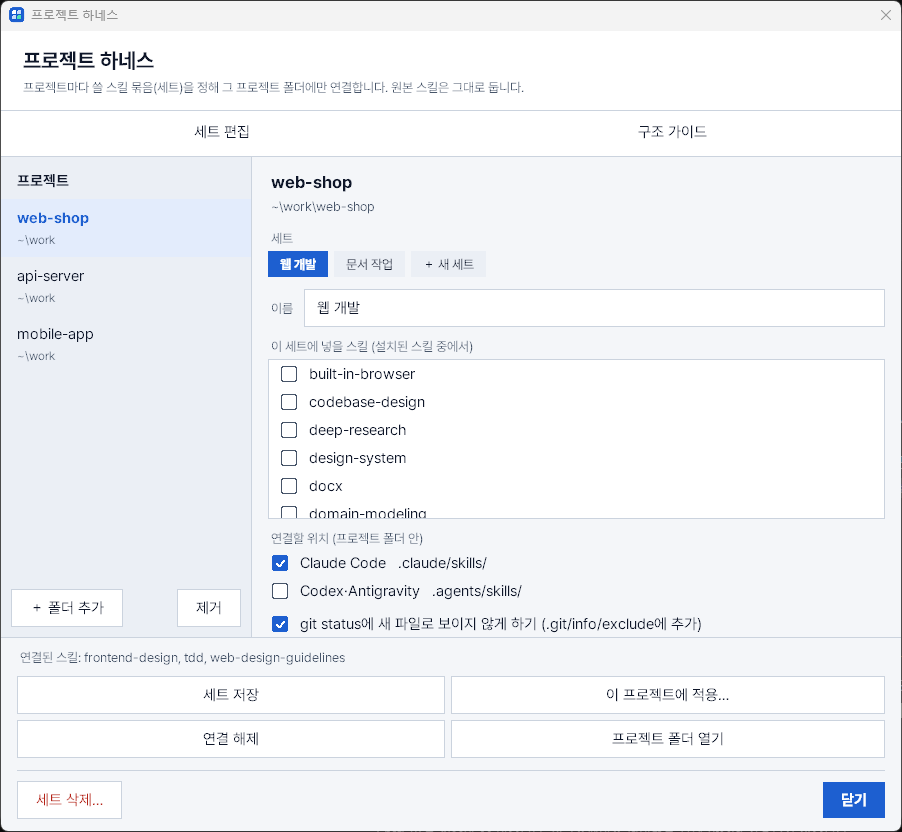
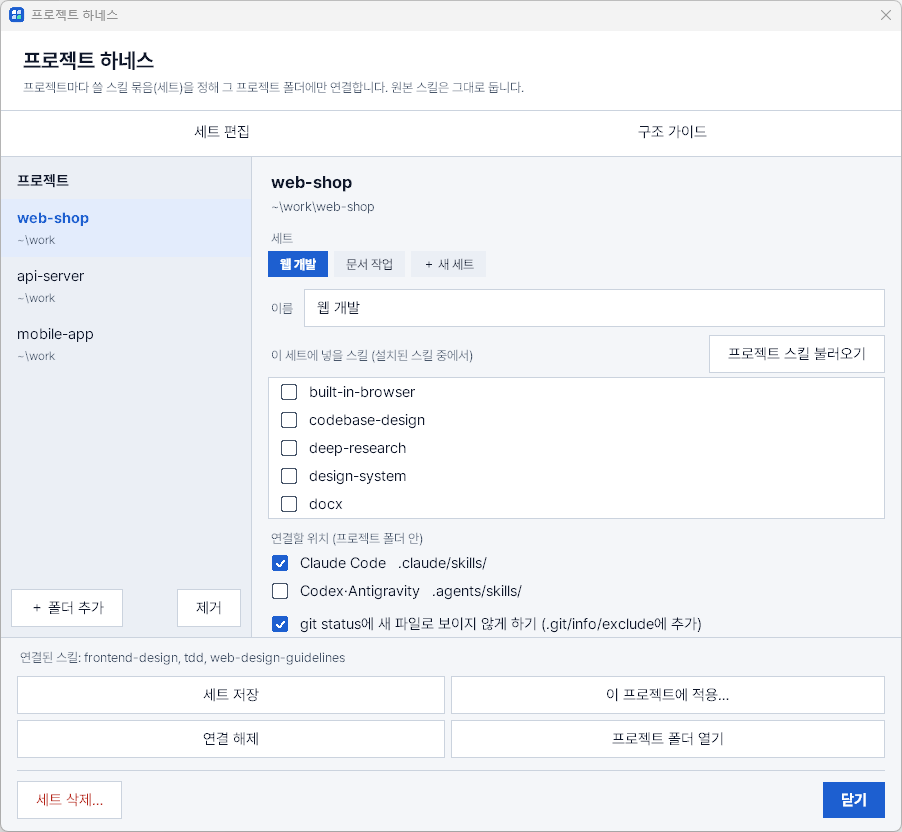
Feat: 프로젝트 하네스에 프로젝트 스킬 불러오기와 기본 초기 세팅 생성 추가
- 프로젝트 폴더의 스킬을 체크 목록에 불러와 세트로 저장
- 구조 가이드의 '기본 세팅 만들기'로 없는 파일만 기본 틀로 생성(덮어쓰지 않음)
- '기본 세팅 편집'으로 기본 내용을 직접 고쳐 저장하고 재사용

Changed region(s): [[0.2794, 0.4062, 0.5277, 0.625], [0.9933, 0.0, 1.0, 1.0], [0.8071, 0.4062, 0.9623, 0.4375]]

diff --git a/src/skilldesk/skill_viewer.py b/src/skilldesk/skill_viewer.py
@@ -1807,6 +1807,7 @@ class HarnessWindow:
         self.project: str | None = None
         self.set_name: str | None = None
         self.creating = False  # "＋ 새 세트" was clicked: an empty set waiting for a name
+        self.pending: set[str] | None = None  # skills read from the project folder, shown ticked until a set is saved
         self.name_var = tk.StringVar()
         self.skill_vars: dict[str, tk.BooleanVar] = {}
         self.target_vars: dict[str, tk.BooleanVar] = {}
@@ -1924,8 +1925,11 @@ class HarnessWindow:
         box, self.name_entry = app._entry(name_row, self.name_var)
         box.pack(side="left", fill="x", expand=True)
 
-        app._label(self.right, "이 세트에 넣을 스킬 (설치된 스킬 중에서)", 10, fg=c["muted"], bg=c["bg"], anchor="w").pack(fill="x")
-        saved = set(self.data["sets"].get(self.set_name or "", {}).get("skills", []))
+        pick = tk.Frame(self.right, bg=c["bg"])
+        pick.pack(fill="x")
+        app._label(pick, "이 세트에 넣을 스킬 (설치된 스킬 중에서)", 10, fg=c["muted"], bg=c["bg"], anchor="w").pack(side="left")
+        app._button(pick, "프로젝트 스킬 불러오기", self.load_project_skills).pack(side="right", pady=(0, 2))
+        saved = set(self.pending if self.pending is not None else self.data["sets"].get(self.set_name or "", {}).get("skills", []))
         installed = sorted({s["path"].name for skills in app.data.values() for s in skills if s["managed"]}, key=str.lower)
         self.skill_vars = {n: tk.BooleanVar(value=n in saved) for n in installed}
         self.skill_vars |= {n: tk.BooleanVar(value=True) for n in sorted(saved - set(installed))}  # in the set, no longer installed
@@ -1966,7 +1970,9 @@ class HarnessWindow:
             self.say("이 프로젝트 폴더를 찾을 수 없습니다. 옮기거나 지웠다면 '제거'로 목록에서 빼세요.", warn=True)
             return
         on = hn.applied(self.project)
-        self.say("연결된 스킬: " + ", ".join(on) if on else "아직 이 프로젝트에 연결된 스킬이 없습니다.")
+        own = [n for n in hn.project_skills(self.project) if n not in on]
+        parts = ([f"연결된 스킬: {', '.join(on)}"] if on else []) + ([f"프로젝트에 직접 둔 스킬: {', '.join(own)}"] if own else [])
+        self.say(" · ".join(parts) or "아직 이 프로젝트에 연결된 스킬이 없습니다.")
 
     def show_page(self, name: str) -> None:
         self.page = name
@@ -1987,8 +1993,8 @@ class HarnessWindow:
         steps = ["1. 왼쪽 '＋ 폴더 추가'로 프로젝트 폴더를 등록합니다.",
                  "2. 세트 편집에서 이 프로젝트에 쓸 스킬을 골라 세트로 저장합니다.",
                  "3. '이 프로젝트에 적용'을 누르면 아래 트리의 skills 폴더에 연결이 만들어집니다. '연결 해제'로 되돌립니다.",
-                 "4. CLAUDE.md · AGENTS.md · .mcp.json · settings.json은 프로젝트에서 직접 작성합니다. "
-                 "이 앱은 아직 만들거나 고치지 않고, 있는지만 보여 줍니다."]
+                 "4. 아래 '기본 세팅 만들기'를 누르면 CLAUDE.md · AGENTS.md · .mcp.json · settings.json 중 없는 것만 기본 틀로 만듭니다. "
+                 "이미 있는 파일은 건드리지 않습니다. 내용은 '기본 세팅 편집…'에서 내 것으로 바꿔 둘 수 있습니다."]
         box = tk.Frame(self.guide_page, bg=c["bg"])
         box.pack(fill="both", expand=True, padx=20, pady=(14, 0))
         app._label(box, "하네스 만드는 순서", 11, bold=True, bg=c["bg"], anchor="w").pack(fill="x", pady=(0, 4))
@@ -1999,6 +2005,10 @@ class HarnessWindow:
             app._label(box, "\n프로젝트를 등록하면 그 폴더의 구조가 여기에 트리로 나옵니다.", 10, fg=c["muted"], bg=c["bg"],
                        anchor="w").pack(fill="x")
             return
+        row = tk.Frame(box, bg=c["bg"])
+        row.pack(side="bottom", fill="x", pady=(0, 8))  # before the tree, so a short window shrinks the tree
+        app._button(row, "기본 세팅 만들기…", self.init_defaults, primary=True).pack(side="left")
+        app._button(row, "기본 세팅 편집…", self.edit_defaults).pack(side="left", padx=(8, 0))
         app._label(box, "프로젝트 구조", 11, bold=True, bg=c["bg"], anchor="w").pack(fill="x", pady=(14, 4))
         mono = (plat.MONO_FONT, round(10 * plat.FONT_SCALE), "normal", "roman")
         text = tk.Text(box, font=mono, bg=c["surface"], fg=c["text"], relief="flat", highlightthickness=1,
@@ -2024,11 +2034,11 @@ class HarnessWindow:
 
     # ---- choices --------------------------------------------------------------------------------
     def select_project(self, path: str) -> None:
-        self.project, self.set_name, self.creating = path, None, False
+        self.project, self.set_name, self.creating, self.pending = path, None, False, None
         self.refresh()
 
     def choose_set(self, name: str | None) -> None:
-        self.set_name, self.creating = name, name is None
+        self.set_name, self.creating, self.pending = name, name is None, None
         if name is not None:
             self.persist()
         self.refresh()
@@ -2080,6 +2090,51 @@ class HarnessWindow:
         if self.project:
             plat.open_folder(Path(self.project))
 
+    # ---- default setup --------------------------------------------------------------------------
+    def load_project_skills(self) -> None:
+        """Tick the skills the project folder already has (linked or put there by hand), ready to save as a set."""
+        if not self.project:
+            return self.say("프로젝트를 먼저 추가하세요.", warn=True)
+        names = hn.project_skills(self.project)
+        if not names:
+            return self.say("이 프로젝트 폴더(.claude/skills, .agents/skills)에 스킬이 없습니다.", warn=True)
+        typed, self.pending = self.name_var.get(), set(names)
+        self.refresh()
+        self.name_var.set(typed)
+        self.say(f"프로젝트 폴더의 스킬 {len(names)}개를 체크했습니다. 이름을 적고 '세트 저장'을 누르면 세트가 됩니다.")
+
+    def init_defaults(self) -> None:
+        """Create the default files the project lacks (never overwriting), and link the chosen set if there is one."""
+        if not self.project:
+            return self.say("프로젝트를 먼저 추가하세요.", warn=True)
+        missing = hn.missing_defaults(self.project)
+        skills = self.data["sets"][self.set_name]["skills"] if self.set_name in self.data["sets"] else []
+        if not missing and not skills:
+            return self.say("이미 기본 세팅이 모두 있습니다. 만들 것이 없습니다.")
+        lines = ["만들 파일: " + (", ".join(missing) or "없음 (모두 이미 있습니다)")]
+        if skills:
+            places = ", ".join(f"{hn.PROJECT_DIRS[t]}/" for t in self.targets())
+            lines.append(f"'{self.set_name}' 세트의 스킬 {len(skills)}개를 {places} 에 연결")
+        if not messagebox.askokcancel("기본 세팅 만들기", "\n".join(lines) + "\n\n이미 있는 파일과 폴더는 건드리지 않습니다.",
+                                      parent=self.win):
+            return
+        made = self.run(hn.init_project, self.project)
+        if made is None:
+            return
+        names = [r.name for r in made if r.status == "created"]
+        text, warn = ("새로 만든 파일: " + ", ".join(names) if names else "새로 만든 파일이 없습니다."), False
+        if skills:
+            self.persist()
+            if (out := self.run(hn.apply, self.project, self.exclude_var.get())) is not None:
+                line, warn = summarize(out)
+                text += " · " + line
+        self.refresh()
+        self.draw_guide()
+        self.say(text, warn)
+
+    def edit_defaults(self) -> None:
+        DefaultsWindow(self)
+
     # ---- sets -----------------------------------------------------------------------------------
     def save_set(self) -> str | None:
         """Save the ticked skills under the typed name and make it this project's set. -> the name, or None."""
@@ -2092,7 +2147,7 @@ class HarnessWindow:
         except mgr.ManagerError as e:
             messagebox.showerror("프로젝트 하네스", str(e), parent=self.win)
             return None
-        self.set_name, self.creating = name, False
+        self.set_name, self.creating, self.pending = name, False, None
         self.persist()
         self.refresh()
         self.say(f"'{name}' 세트를 저장했습니다.")
@@ -2142,6 +2197,73 @@ class HarnessWindow:
 
 def ellipsis(text: str, n: int) -> str:
     return text if len(text) <= n else "…" + text[-(n - 1):]
+
+
+class DefaultsWindow:
+    """Edit the content of the default files ('기본 세팅 만들기' writes these into a project). Saved in harness.json."""
+    W, H = 640, 520
+
+    def __init__(self, parent: HarnessWindow):
+        self.app = parent.app
+        app, c = self.app, self.app.c
+        self.win = win = app._side_window("기본 세팅 편집", self.W, self.H)
+        win.transient(parent.win)
+        win.bind("<Escape>", lambda e: win.destroy())
+        self.files = hn.default_files()
+        self.current = next(iter(self.files))
+        app._label(win, "기본 세팅 편집", 14, bold=True, bg=c["bg"], anchor="w", padx=20).pack(fill="x", pady=(14, 0))
+        app._label(win, "프로젝트에 없는 파일을 만들 때 쓰는 내용입니다. 이미 있는 파일에는 영향이 없습니다.", 10, fg=c["muted"],
+                   bg=c["bg"], anchor="w", padx=20).pack(fill="x", pady=(0, 8))
+        bottom = tk.Frame(win, bg=c["bg"])
+        bottom.pack(side="bottom", fill="x", padx=20, pady=(8, 14))
+        app._button(bottom, "저장", self.save, primary=True).pack(side="right")
+        app._button(bottom, "닫기", win.destroy).pack(side="right", padx=(0, 8))
+        app._button(bottom, "앱 기본값으로", self.reset).pack(side="left")
+        self.note = app._label(win, "", 10, fg=c["muted"], bg=c["bg"], anchor="w", padx=20)
+        self.note.pack(side="bottom", fill="x")
+        chips = tk.Frame(win, bg=c["bg"])
+        chips.pack(fill="x", padx=20, pady=(0, 6))
+        self.chips = {}
+        for rel in self.files:
+            chip = app._label(chips, rel, 10, padx=10, pady=3, cursor="hand2")
+            chip.pack(side="left", padx=(0, 6))
+            chip.bind("<Button-1>", lambda e, r=rel: self.choose(r))
+            self.chips[rel] = chip
+        self.text = DetailDialog._text_box(self, win, height=14, mono=True)  # type: ignore[arg-type]  # the skill editor's box
+        self.text.frame.pack(fill="both", expand=True, padx=20)  # type: ignore[attr-defined]
+        self.text.insert("1.0", self.files[self.current])
+        self.paint()
+
+    def paint(self) -> None:
+        c = self.app.c
+        for r, chip in self.chips.items():
+            on = r == self.current
+            chip.config(bg=c["accent"] if on else c["rail"], fg=c["on_accent"] if on else c["text"])
+
+    def choose(self, rel: str) -> None:
+        self.files[self.current] = self.text.get("1.0", "end-1c")
+        self.current = rel
+        self.text.delete("1.0", "end")
+        self.text.insert("1.0", self.files[rel])
+        self.text.edit_reset()
+        self.paint()
+
+    def say(self, text: str, warn: bool = False) -> None:
+        self.note.config(text=text, fg=self.app.c["warn_fg"] if warn else self.app.c["muted"])
+
+    def save(self) -> None:
+        self.files[self.current] = self.text.get("1.0", "end-1c")
+        try:
+            hn.save_defaults(self.files)
+        except mgr.ManagerError as e:
+            return self.say(str(e), warn=True)
+        self.say("저장했습니다. 다음 '기본 세팅 만들기'부터 이 내용을 씁니다.")
+
+    def reset(self) -> None:
+        self.files = dict(hn.DEFAULT_FILES)
+        self.text.delete("1.0", "end")
+        self.text.insert("1.0", self.files[self.current])
+        self.say("앱 기본값을 불러왔습니다. 저장해야 적용됩니다.")
 
 
 def summarize(results: list, release: bool = False) -> tuple[str, bool]:

diff --git a/src/skilldesk/skill_harness.py b/src/skilldesk/skill_harness.py
@@ -37,6 +37,14 @@ STRUCTURE = [
     (".agents/skills", "프로젝트 전용 스킬 폴더 ← 세트를 적용하면 여기에 연결됩니다"),
 ]
 MAX_SHOWN = 50  # skills listed per folder in the guide
+# The app's starting content for the files "기본 세팅 만들기" writes. The user can replace any of them (saved under
+# "defaults" in harness.json); a file that already exists in the project is never overwritten.
+DEFAULT_FILES = {
+    "CLAUDE.md": "<!-- Claude Code가 이 프로젝트에서 시작할 때마다 읽는 지침입니다. 프로젝트 설명, 작업 규칙을 적어 두세요. -->\n",
+    "AGENTS.md": "<!-- Codex 등 여러 에이전트가 읽는 지침입니다. 프로젝트 설명, 작업 규칙을 적어 두세요. -->\n",
+    ".mcp.json": '{\n  "mcpServers": {}\n}\n',
+    ".claude/settings.json": "{}\n",
+}
 
 
 def _file() -> Path:
@@ -65,7 +73,9 @@ def load() -> dict:
         exclude = [x for x in v.get("exclude", []) if isinstance(x, str)]
         chosen = v.get("set") if v.get("set") in sets else None
         projects[path] = {**v, "set": chosen, "targets": targets or list(PROJECT_DIRS)[:1], "links": links, "exclude": exclude}
-    return {"version": VERSION, "sets": sets, "projects": projects}
+    d = raw.get("defaults")
+    defaults = {k: v for k, v in (d if isinstance(d, dict) else {}).items() if k in DEFAULT_FILES and isinstance(v, str)}
+    return {"version": VERSION, "sets": sets, "projects": projects, "defaults": defaults}
 
 
 def save(data: dict) -> None:
@@ -94,6 +104,58 @@ def delete_set(name: str) -> None:
         if p["set"] == name:
             p["set"] = None
     save(data)
+
+
+# ---- default setup -------------------------------------------------------------------------------
+def default_files() -> dict[str, str]:
+    """The content "기본 세팅 만들기" writes: the app's starting files, with the user's saved edits on top."""
+    return {**DEFAULT_FILES, **load()["defaults"]}
+
+
+def save_defaults(files: dict[str, str]) -> None:
+    """Remember the user's own content for the default files (only what differs from the app's start is stored)."""
+    for rel, text in files.items():
+        if rel.endswith(".json"):
+            try:
+                json.loads(text)
+            except ValueError as e:
+                raise ManagerError(f"{rel}은(는) 올바른 JSON이 아닙니다: {e}") from e
+    data = load()
+    data["defaults"] = {k: v for k, v in files.items() if k in DEFAULT_FILES and v != DEFAULT_FILES[k]}
+    save(data)
+
+
+def init_project(path: str | Path) -> list[Result]:
+    """Create the default files that the project does not have yet. Anything that is already there (even a folder or a
+    broken link under that name) is left alone: status 'exists'. A new file is 'created'. -> one Result per file."""
+    project = _project_path(path)
+    out = []
+    for rel, text in default_files().items():
+        f = project / rel
+        if f.exists() or mgr.is_link(f):
+            out.append(Result("파일", rel, "exists"))
+            continue
+        f.parent.mkdir(parents=True, exist_ok=True)
+        with f.open("x", encoding="utf-8", newline="\n") as fh:  # "x": fails rather than overwrite if it appeared meanwhile
+            fh.write(text)
+        out.append(Result("파일", rel, "created"))
+    return out
+
+
+def missing_defaults(path: str | Path) -> list[str]:
+    """The default files the project does not have yet (what init_project would create)."""
+    project = Path(path)
+    return [rel for rel in default_files() if not (project / rel).exists() and not mgr.is_link(project / rel)]
+
+
+def project_skills(path: str | Path) -> list[str]:
+    """Names of the skills already in the project's skills folders (links and folders alike), whoever put them there."""
+    names = set()
+    for rel in PROJECT_DIRS.values():
+        d = Path(path) / rel
+        if d.is_dir():
+            names |= {p.name for p in d.iterdir() if mgr.NAME_RE.fullmatch(p.name) and (p / "SKILL.md").is_file()}
+    return sorted(names, key=str.lower)
 
 
 # ---- projects ------------------------------------------------------------------------------------

diff --git a/tests/test_viewer.py b/tests/test_viewer.py
@@ -1331,6 +1331,9 @@ class PanelTest(unittest.TestCase):
             bad += low_contrast(app, hw.win, app.theme + " harness, new set")
             hw.show_page("구조 가이드")
             bad += low_contrast(app, hw.win, app.theme + " harness, guide")
+            dd = v.DefaultsWindow(hw)
+            bad += low_contrast(app, dd.win, app.theme + " harness, defaults")
+            dd.win.destroy()
             hw.show_page("세트 편집")
             for w in walk(hw.win):
                 if isinstance(w, tk.Label) and str(w.cget("cursor")) == "hand2":
@@ -1407,6 +1410,48 @@ class PanelTest(unittest.TestCase):
             w.delete_set()
         self.assertNotIn("web", hn.load()["sets"])
         w.close()
+        mgr.remove("Claude Code", "harness-demo")
+        app.load()
+
+    def test_16_harness_window_loads_project_skills_and_creates_the_default_setup(self):
+        claude = mgr.AGENT_DIRS["Claude Code"]
+        write_skill(claude / "harness-demo")
+        proj = self.tmp / "harness-init"
+        (proj / ".claude/skills").mkdir(parents=True)
+        write_skill(proj / ".claude/skills/harness-demo")
+        write_skill(proj / ".claude/skills/hand-made")  # not installed anywhere else
+        (proj / "CLAUDE.md").write_text("mine", encoding="utf-8")
+        key = hn.add_project(proj)
+        app = self.app
+        app.load()
+        app.harness_dialog()
+        w = app.dialog
+        w.select_project(key)
+        w.load_project_skills()  # the project's own skills show up ticked, the missing one flagged
+        self.assertEqual({n for n, var in w.skill_vars.items() if var.get()}, {"harness-demo", "hand-made"})
+        w.name_var.set("from-project")
+        w.save_set()
+        self.assertCountEqual(hn.load()["sets"]["from-project"]["skills"], ["hand-made", "harness-demo"])
+        w.show_page("구조 가이드")
+        with mock.patch.object(v.messagebox, "askokcancel", return_value=False):
+            w.init_defaults()  # cancelled: nothing is made
+        self.assertFalse((proj / "AGENTS.md").exists())
+        with mock.patch.object(v.messagebox, "askokcancel", return_value=True):
+            w.init_defaults()
+        self.assertEqual((proj / "CLAUDE.md").read_text(encoding="utf-8"), "mine")  # never overwritten
+        self.assertTrue((proj / "AGENTS.md").is_file() and (proj / ".claude/settings.json").is_file())
+        self.assertIn("AGENTS.md", w.status.cget("text"))
+        dlg = v.DefaultsWindow(w)
+        dlg.choose(".mcp.json")
+        dlg.text.delete("1.0", "end")
+        dlg.text.insert("1.0", "{nope")
+        dlg.save()
+        self.assertEqual(hn.load()["defaults"], {})  # invalid JSON is refused, nothing saved
+        dlg.win.destroy()
+        w.close()
+        for p in (proj / ".claude/skills").iterdir():
+            if mgr.is_link(p):
+                plat.unlink_dir(p)
         mgr.remove("Claude Code", "harness-demo")
         app.load()
 

diff --git a/tests/test_harness.py b/tests/test_harness.py
@@ -54,6 +54,37 @@ class HarnessTest(unittest.TestCase):
         h.save_set("web", ["alpha", "alpha", "gamma"])  # same name replaces; duplicates collapse
         self.assertEqual(h.load()["sets"]["web"]["skills"], ["alpha", "gamma"])
 
+    def test_init_project_creates_only_what_is_missing_and_never_overwrites(self):
+        (self.proj / "CLAUDE.md").write_text("mine", encoding="utf-8")
+        self.assertEqual(h.missing_defaults(self.proj), ["AGENTS.md", ".mcp.json", ".claude/settings.json"])
+        out = {r.name: r.status for r in h.init_project(self.proj)}
+        self.assertEqual(out, {"CLAUDE.md": "exists", "AGENTS.md": "created", ".mcp.json": "created", ".claude/settings.json": "created"})
+        self.assertEqual((self.proj / "CLAUDE.md").read_text(encoding="utf-8"), "mine")
+        json.loads((self.proj / ".mcp.json").read_text(encoding="utf-8"))
+        (self.proj / "AGENTS.md").write_text("edited", encoding="utf-8")
+        self.assertEqual({r.status for r in h.init_project(self.proj)}, {"exists"})  # a second run changes nothing
+        self.assertEqual((self.proj / "AGENTS.md").read_text(encoding="utf-8"), "edited")
+        self.assertEqual(h.missing_defaults(self.proj), [])
+
+    def test_saved_defaults_replace_the_apps_start_and_must_be_valid_json(self):
+        files = h.default_files()
+        files["AGENTS.md"] = "# my rules\n"
+        h.save_defaults(files)
+        self.assertEqual(h.load()["defaults"], {"AGENTS.md": "# my rules\n"})  # only what differs is stored
+        h.init_project(self.proj)
+        self.assertEqual((self.proj / "AGENTS.md").read_text(encoding="utf-8"), "# my rules\n")
+        with self.assertRaises(mgr.ManagerError):
+            h.save_defaults({**files, ".mcp.json": "{nope"})
+        self.assertEqual(h.load()["defaults"], {"AGENTS.md": "# my rules\n"})  # the refused save changed nothing
+
+    def test_project_skills_lists_links_and_own_folders_in_both_places(self):
+        self.assertEqual(h.project_skills(self.proj), [])
+        h.apply(self.key)  # alpha, beta linked into .claude/skills
+        write_skill(self.proj / ".claude/skills/own")
+        write_skill(self.proj / ".agents/skills/beta")
+        (self.proj / ".claude/skills/not-a-skill").mkdir()
+        self.assertEqual(h.project_skills(self.proj), ["alpha", "beta", "own"])
+
     def test_unknown_keys_of_a_set_survive_a_save(self):
         f = mgr.STORE / "harness.json"
         f.write_text(json.dumps({"version": 9, "sets": {"x": {"skills": ["alpha"], "files": ["CLAUDE.md"]}}}), encoding="utf-8")
